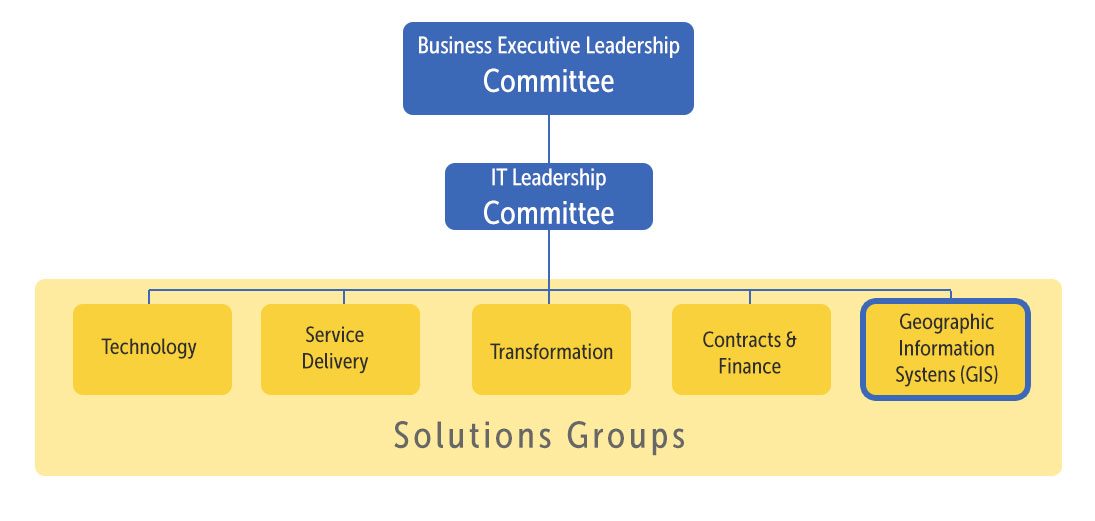
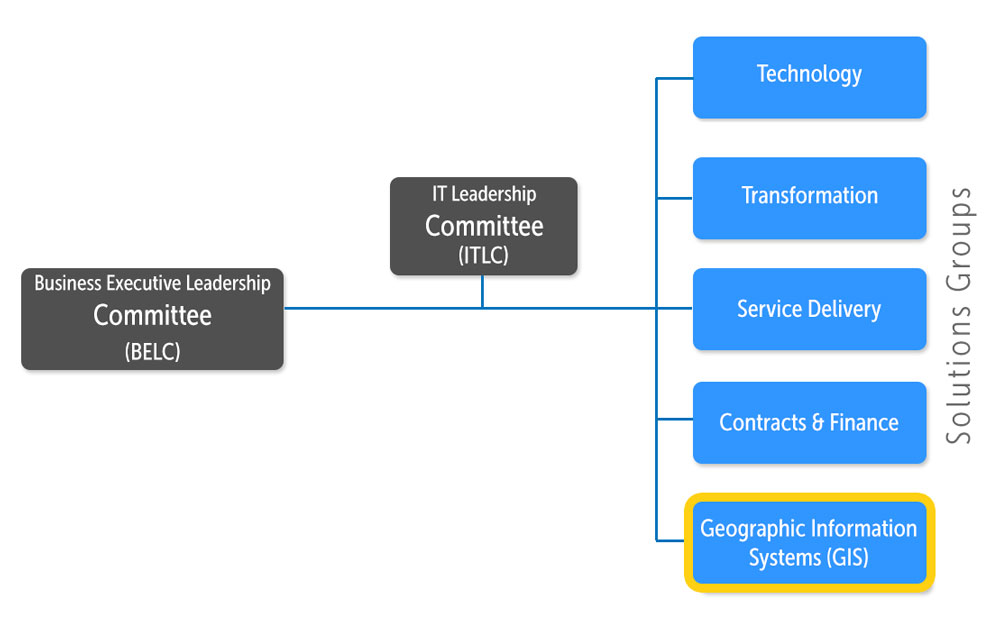
updating page with felicia edits and graphics

diff --git a/scss/partials/_gio-page.scss b/scss/partials/_gio-page.scss
@@ -54,3 +54,72 @@
     display: block;
   }
 }
+
+.gio-agency-collection {
+  margin-bottom: 30px;
+  width: 100%;
+
+  .glyphicon {
+    display: block;
+    font-size: 40px;
+    margin: 0 auto;
+    margin-top: -1px;
+    width: 40px;
+    text-shadow: 2px 2px 2px $middarkgrey;
+
+    &.member {
+      color: $boltblue;
+    }
+
+    &.associate {
+      color: $fadedblue
+    }
+  }
+
+  .member-box {
+    border-radius: 10px;
+    box-shadow: 2px 2px 2px $middarkgrey;
+    color: $white;
+    float: left;
+    font-size: 20px;
+    padding: 10px;
+    text-align: center;
+    width: 100%;
+
+    &.member {
+      background: $boltblue;
+    }
+
+    &.associate {
+      background: $fadedblue;
+      margin-top: 20px;
+    }
+  }
+}
+
+.gio-agency {
+  border: 1px solid $midgrey;
+  border-radius: 10px;
+  display: block;
+  margin: 0 auto;
+  padding: 5px;
+  position: relative;
+  width: 100%;
+  text-align: center;
+
+  img {
+    display: block;
+    margin: 0 auto;
+  }
+
+  @media (min-width: $screen-md) {
+  }
+
+  &:hover {
+    border-color: $tnrisblue;
+  }
+
+  @media (min-width: $screen-sm){
+    min-height: 125px;
+  }
+}

diff --git a/templates/partials/gio-sub.html b/templates/partials/gio-sub.html
@@ -13,9 +13,6 @@
       <div class="top-header center-block">
           <div class="container">
             <h1>{{title}}</h1>
-            {% if abstract %}
-              <div class="lead">{{abstract}}</div>
-            {% endif %}
           </div>
       </div>
       </div>

diff --git a/scss/partials/_variables.scss b/scss/partials/_variables.scss
@@ -23,6 +23,7 @@ $auburn: #bf571f;
 $auburnoutline: #80310a;
 
 $tnrisblue: #1e8dc1;
+$boltblue: #3096ff;
 $lightblue: #e8f4fa;
 $sky: #d2f1ff;
 $midsky: #79c9ef;

diff --git a/content/markdown/geographic-information-office/gis-solutions-group/index.md b/content/markdown/geographic-information-office/gis-solutions-group/index.md
@@ -1,56 +1,149 @@
 ---
 template: partials/gio-sub.html
-title: "Data Center Services GIS Solutions Group"
+title: "Data Center Services (DCS) GIS Solutions Group"
 author: Felicia Retiz, Deputy GIO
-mainimage: static/images/gio/gis_button.jpg
+mainimage: static/images/gio/gis_button_web.jpg
 abstract:
     The GIS Solutions Group, established spring 2015, meets monthly to discuss projects and solutions related to GIS services procured through the Data Services Center. 
 tags: GIO, Data Sharing, GIS, Geospatial, DIR, DCS
 ---
 
-<p class="lead">The Texas Natural Resources Information System, along with the [Texas Department of Information Resources](http://dir.texas.gov/View-About-DIR/Data-Center/Landing.aspx), established the Data Center Services (DCS) GIS Solutions Group to help address the complexities of geographic information systems in the state. The Solutions Group provides a platform for sharing information and making unified decisions that will better serve geographic information departments at state agencies. The DCS GIS Solutions Group meets monthly.</p>
+<p class="lead">The Texas Natural Resources Information System, along with the [Texas Department of Information Resources](http://dir.texas.gov/View-About-DIR/Data-Center/Landing.aspx), established the <strong>Data Center Services (DCS) GIS Solutions Group</strong> to help address the complexities of geographic information systems in the state. The Solutions Group provides a platform for sharing information and making unified decisions that will better serve geographic information departments at state agencies. The DCS GIS Solutions Group meets monthly.
 
-## DCS GIS Solutions Group
+<div class="well">
+  <h3><em>Next GIS Solutions Group Meeting</em></h3>
+
+<h3>April 19, 1:30 PM – 3 PM</h3>
+</div>
+</p>
+
+## Data Center Services Solutions Groups
 <figure>
 <img class="img-responsive" src="{{ m.link('static/images/gio/dcs_groups.jpg')}}" alt="A flowchart of the DCS solutions groups structure">
 <figcaption class="right-align">The DCS solutions groups structure</figcaption>
 </figure>
 
-The [Data Center Services (DCS) Solutions Groups] (http://dir.texas.gov/View-About-DIR/Data-Center/Pages/Content.aspx?id=12) are at the 'front line' to address issues related to specific services provided through the State Data Center. There are five Solutions Groups, including the most recently created GIS Solutions Group, whose main tasks are to tackle issues and concerns that affect particular services provided by the DCS.
+The [Data Center Services (DCS) Solutions Groups](http://dir.texas.gov/View-About-DIR/Data-Center/Pages/Content.aspx?id=12) are at the 'front line' to address issues related to specific services provided through the State Data Center. There are five Solutions Groups, including the most recently created GIS Solutions Group, whose main tasks are to tackle issues and concerns that affect particular services provided by the DCS.
 
-The DCS GIS Solutions Group was created to meet the need for a formal team of agencies willing to participate in shared purchases for GIS data and enterprise technology services.  The catalyst for creating the DCS GIS Solutions Group was a mulit-agency joint effort to obtain a state enterprise license to Google’s 6-inch imagery service. In March 2015, a contract between Google and the state of Texas was executed through the DCS to execute a statewide Google Imagery Service Pilot Project.
+The DCS GIS Solutions Group was created to meet the need for a formal team of agencies willing to participate in shared purchases for GIS data and enterprise technology services.  The catalyst for creating the DCS GIS Solutions Group was a mulit-agency joint effort to obtain a state enterprise license to Google’s 6-inch imagery service. In March 2015, a contract between Google and the state of Texas was executed through the DCS to execute a statewide [Google Imagery Service Pilot Project](texas-google-imagery).
 
-The first meeting of the DCS GIS Solutions Group was held on March 25, 2015 with current participating member agencies – [Department of Information Resources](http://dir.texas.gov/), [Commission on Emergency Communications](http://www.csec.texas.gov/), [Texas Commission on Environmental Quality](http://www.tceq.state.tx.us/), [Texas Department of Transportation](https://www.txdot.gov/), and [Texas Water Development Board](http://www.twdb.texas.gov/)(via TNRIS). Serving as associate members are [Texas Parks and Wildlife Department](http://tpwd.texas.gov/), [Texas Department of Public Safety](https://www.txdps.state.tx.us/), and [Texas General Land Office](http://www.glo.texas.gov/). 
+## Participating Agencies
 
-The DCS GGIS Solutions Group gathers each month and topics of discussion include:
+<section class="gio-agency-collection container">
+   <div class="row">
+      <div class="member-box member">
+        <strong>Participating Member Agencies</strong> of the GIS Solutions Group
+      </div>
+   </div>
+    <div class="row">
+      <div class="col-xs-5ths">
+        <span class="glyphicon glyphicon-arrow-down member"></span>
+        <a class="gio-agency" href="http://www.dir.texas.gov">
+          <img class="img-responsive" src="{{m.link('static/images/logos/dir_logo_padded.jpg')}}" alt="Department of Information Resources Logo and Link to website">
+        </a>
+      </div>
+      <div class="col-xs-5ths">
+        <span class="glyphicon glyphicon-arrow-down member"></span>
+        <a class="gio-agency" href="http://www.csec.texas.gov/">
+          <img class="img-responsive" src="{{m.link('static/images/logos/csec_logo_med.jpg')}}" alt="Commission on Emergency Communications (CSEC) Logo and Link to website">
+        </a>
+      </div>
+        <div class="col-xs-5ths">
+        <span class="glyphicon glyphicon-arrow-down member"></span>
+        <a class="gio-agency" href="http://www.tceq.state.tx.us">
+          <img title="Visit the Texas Commission on Environmental Quality (TCEQ) website" class="img-responsive" src="{{m.link('static/images/statewide-orthoimagery/logos/tceq_logo.jpg')}}" alt="Texas Commission on Environmental Quality (TCEQ) Logo and Link to website">
+        </a>
+      </div>
+      <div class="col-xs-5ths">
+        <span class="glyphicon glyphicon-arrow-down member"></span>
+        <a title="Visit the Texas Department of Transportation website" class="gio-agency" href="http://www.txdot.gov">
+          <img class="img-responsive" src="{{m.link('static/images/statewide-orthoimagery/logos/txdot.jpg')}}" alt="Texas Department of Transportation (TxDOT) Logo and Link to website">
+        </a>
+      </div>
+      <div class="col-xs-5ths">
+        <span class="glyphicon glyphicon-arrow-down member"></span>
+        <a class="gio-agency" href="http://www.twdb.texas.gov">
+          <img class="img-responsive" src="{{m.link('static/images/logos/twdb_web_med_rect.jpg')}}" alt="Texas Water Development Board Logo and Link to website">
+        </a>
+      </div>
+   </div>
+</section>
 
-- Google Imagery Pilot
-  - Software and application access experience
-  - Usage metrics and cost model
-  - Imagery updates to the service
-  - Prioritization of new imagery purchases
-  - Progress updates from Google
+The first meeting of the DCS GIS Solutions Group was held on March 25, 2015 with current participating member agencies: 
+- [Department of Information Resources (DIR)](http://dir.texas.gov/)
+- [Commission on Emergency Communications (CSEC)](http://www.csec.texas.gov/)
+- [Texas Commission on Environmental Quality (TCEQ)](http://www.tceq.state.tx.us/)
+- [Texas Department of Transportation (TXDOT)](https://www.txdot.gov/)
+- [Texas Water Development Board (TWDB)](http://www.twdb.texas.gov/) (via TNRIS). 
 
-- Geospatial Data
-  - Authoritative Sources
-  - Barriers to sharing
-  - Statewide Address/Parcel Data
-  - Enterprise data storage and access
+<section class="gio-agency-collection container">
+   <div class="row">
+      <div class="member-box associate">
+        <strong>Associate Members</strong> of the GIS Solutions Group
+      </div>
+   </div>
+    <div class="row">
+      <div class="col-xs-4">
+        <span class="glyphicon glyphicon-arrow-down associate"></span>
+        <a class="gio-agency" href="http://www.tpwd.texas.gov">
+          <img class="img-responsive" src="{{m.link('static/images/logos/tpwd_logo.jpg')}}" alt="Texas Parks and Wildlife Logo and Link to website">
+        </a>
+      </div>
+        <div class="col-xs-4">
+        <span class="glyphicon glyphicon-arrow-down associate"></span>
+        <a class="gio-agency" href="https://www.txdps.state.tx.us/">
+          <img class="img-responsive" src="{{m.link('static/images/logos/tx_dps_logo.jpg')}}" alt="Texas Department of Public Safety Logo and Link to website">
+        </a>
+      </div>
+      <div class="col-xs-4">
+        <span class="glyphicon glyphicon-arrow-down associate"></span>
+        <a class="gio-agency" href="http://www.glo.texas.gov">
+          <img class="img-responsive" src="{{m.link('static/images/statewide-orthoimagery/logos/glo_logo.jpg')}}" alt="Texas General Land Office (GLO) Logo and Link to website">
+        </a>
+      </div>
+</section>
+
+Serving as associate members are: 
+
+- [Texas Parks and Wildlife Department](http://tpwd.texas.gov/)
+- [Texas Department of Public Safety](https://www.txdps.state.tx.us/)
+- [Texas General Land Office](http://www.glo.texas.gov/) 
+
+## Ongoing Projects
+
+The DCS GIS Solutions Group gathers each month. Topics of discussion include:
+
+### Google Imagery Pilot
+
+Visit the [Google Imagery Project Page](texas-google-imagery)
+
+- Software and application access experience
+- Usage metrics and cost model
+- Imagery updates to the service
+- Prioritization of new imagery purchases
+- Progress updates from Google
+
+### Geospatial Data
+
+- Authoritative Sources
+- Barriers to sharing
+- Statewide Address/Parcel Data
+- Enterprise data storage and access
 
 ****
 
-### Notes from Last Meeting
+## Notes from Last Meeting
 
-<p class="lead">February 2016</p>
-
-****
-
-### Next Meeting – April 19, 1:30 PM – 3 PM
+<p class="lead">February 2016 - <em>Coming Soon</em></p>
 
 ****
 
-### Group Charter
+## Group Charter
+
+*Coming Soon*
 
 ****
 
-### Archive
+## Archive
+
+*Coming Soon*

diff --git a/content/markdown/geographic-information-office.md b/content/markdown/geographic-information-office.md
@@ -9,6 +9,14 @@ abstract:
 
 <p class="lead">The responsibility of the State GIO is to identify ways geographic information can be used to support state agency business. The GIO has been tasked to work with state agencies to draft public policy recommendations and funding requirements related to the acquisition, distribution and sharing of geospatial information.</p>
 
-A report containing policy and funding recommendations is to be submitted to the Governor, Lieutenant Governor, and Speaker of the House, no later than December 1, 2016 and at the end of each successive 5 year period thereafter.
+### Designated GIO
 
-The State Geographic Information Officer is designated by statute ([Texas Water Code §16.021](http://www.statutes.legis.state.tx.us/SOTWDocs/WA/htm/WA.16.htm)) to be the current Director of the Texas Natural Resources Information System.
+The State Geographic Information Officer (GIO) is designated by statute ([Texas Water Code §16.021](http://www.statutes.legis.state.tx.us/SOTWDocs/WA/htm/WA.16.htm)) to be the current Director of the Texas Natural Resources Information System.
+
+### GIO Report - 1st Edition
+
+A report containing policy and funding recommendations is to be submitted to the Governor, Lieutenant Governor, and Speaker of the House, **no later than December 1, 2016** and at the end of each successive 5 year period thereafter.
+
+### Data Center Services GIS Solutions Group
+
+<p><a class="btn btn-lg btn-success pull-right" href="{{m.link('geographic-information-office/gis-solutions-group/index')}}">Learn More about the GIS Solutions Group</a> <a href="{{m.link('geographic-information-office/gis-solutions-group/index')}}">The GIS Solutions Group</a>, established spring 2015, meets monthly to discuss projects and solutions related to GIS services procured through the Data Services Center.</p>
